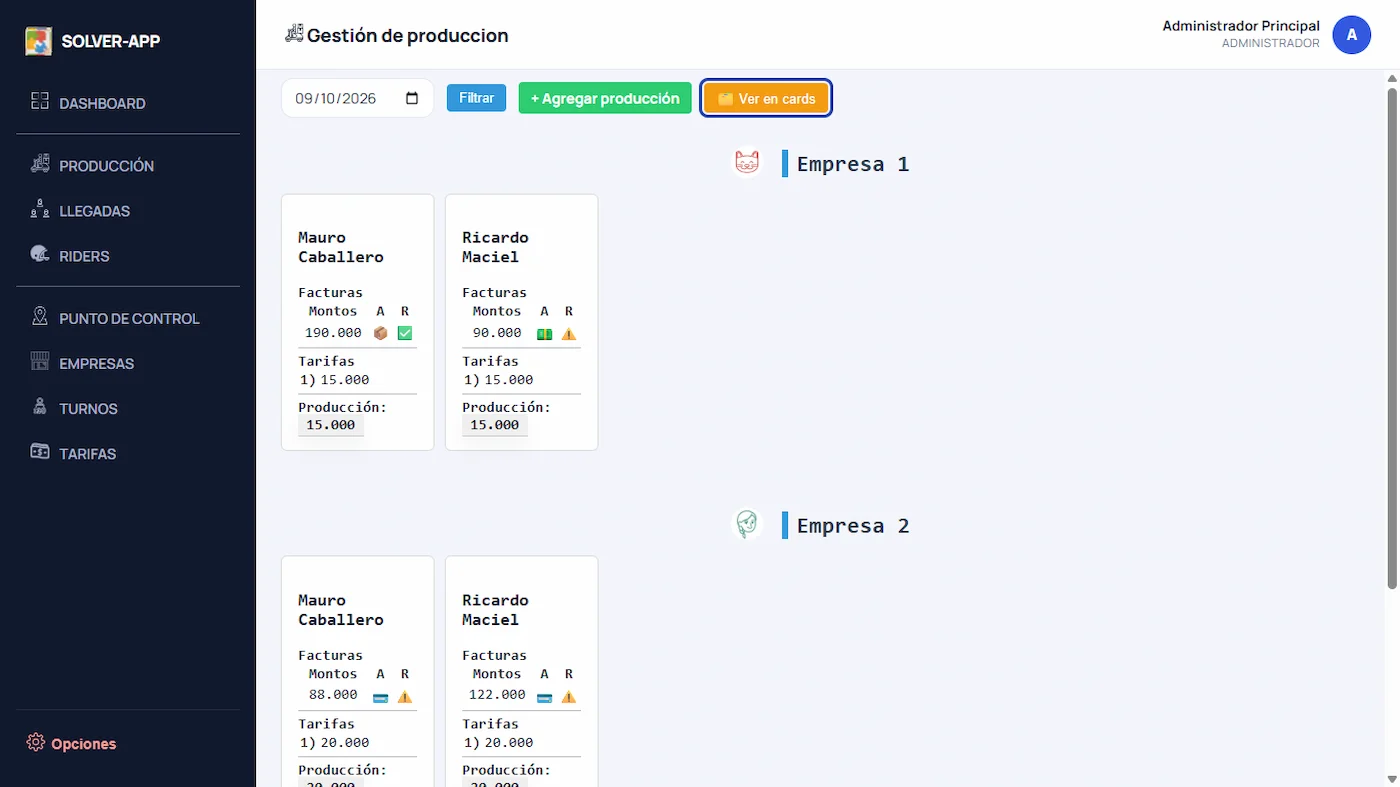
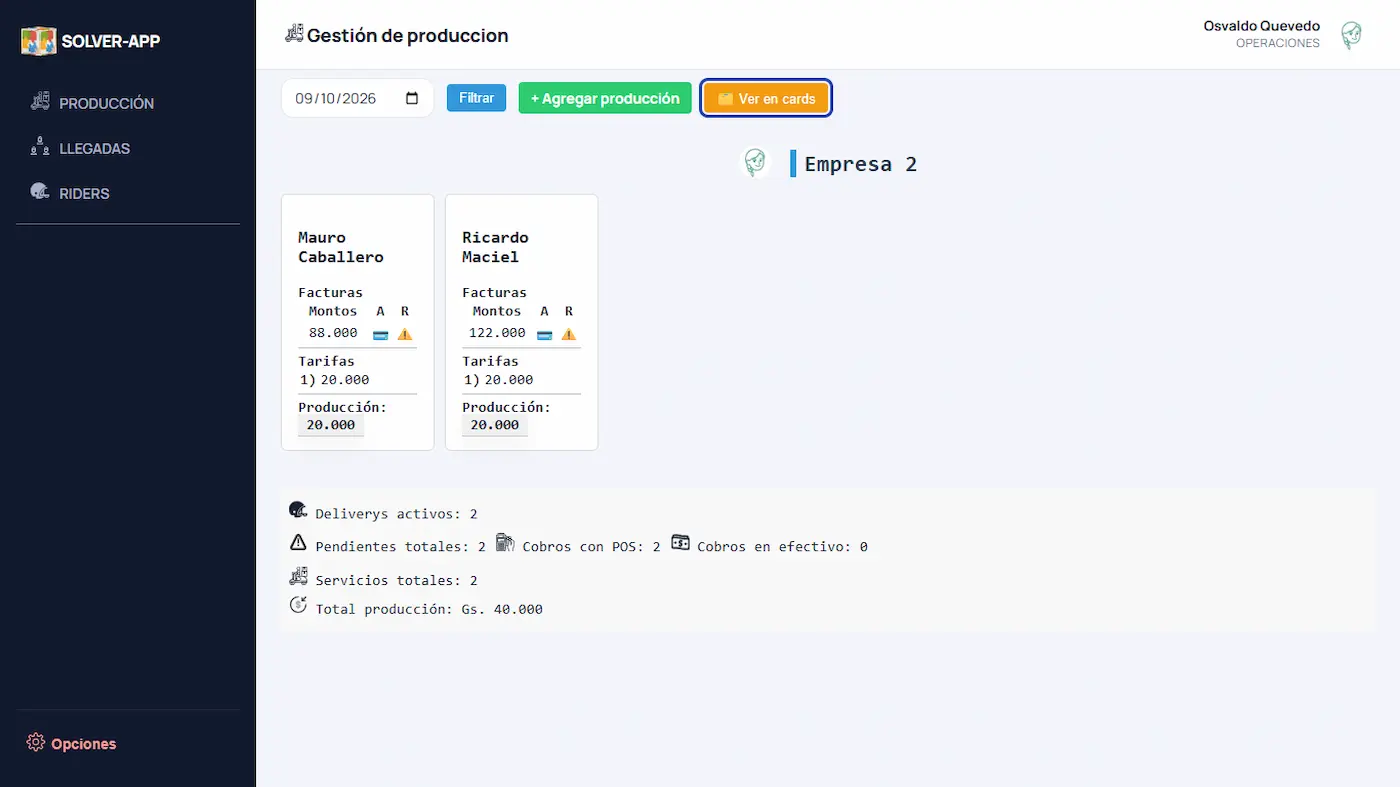
actualizacion en activacion de usuarios = rider

diff --git a/public/css/style.css b/public/css/style.css
@@ -2850,6 +2850,39 @@ facturas-table[type="date"]::-webkit-calendar-picker-indicator {
   justify-content: flex-end; /* 👈 mantiene el formulario a la derecha */
 }
 
+/* Botón de volver adaptado */
+.btn-volver {
+    display: inline-flex;
+    align-items: center;
+    justify-content: center;
+    gap: 8px; /* Espacio entre la flecha y el texto */
+    padding: 10px 20px;
+    font-size: 14px;
+    font-weight: 500;
+    color: #555555; /* Texto gris neutro */
+    background-color: #f5f5f5; /* Fondo suave */
+    border: 1px solid #dddddd;
+    border-radius: 6px;
+    text-decoration: none;
+    transition: all 0.2s ease-in-out;
+    cursor: pointer;
+}
+
+/* Efecto al pasar el mouse (Hover) */
+.btn-volver:hover {
+    color: #222222;
+    background-color: #eaeaea;
+    border-color: #cccccc;
+    transform: translateX(-2px); /* Pequeño efecto de empuje hacia la izquierda */
+}
+
+/* Ícono de flecha nativo en CSS (si no usas FontAwesome) */
+.btn-volver::before {
+    content: "←";
+    font-size: 16px;
+    line-height: 1;
+}
+
 /* Adaptación móvil */
 @media (max-width: 768px) {
   .hamburger {
@@ -3313,6 +3346,7 @@ panel-header d-flex align-items-center
     .flex-row { flex-direction: row !important; }
     .justify-between { justify-content: space-between !important; }
     .justify-center { justify-content: center !important; }
+    .align-start { align-items:flex-start !important; }
     .align-center { align-items: center !important; }
     .align-bottom { align-items: flex-end !important; }
     .gap-8 { gap: 8px !important; }

diff --git a/public/css/aboutdev.css b/public/css/aboutdev.css
@@ -564,6 +564,31 @@
 }
 
 
+/* Captura panorámica del Dashboard */
+
+.aboutdev-screenshot-wide {
+    margin: 32px 0;
+    padding: 14px;
+    border: 1px solid var(--ad-border);
+    border-radius: 16px;
+    background: var(--ad-surface);
+}
+
+.aboutdev-screenshot-wide img {
+    width: 100%;
+    height: auto;
+    max-height: 620px;
+    object-fit: contain;
+    border-radius: 10px;
+}
+
+@media (max-width: 640px) {
+    .aboutdev-screenshot-wide {
+        padding: 8px;
+        margin: 24px 0;
+    }
+}
+
 /* ========================================
    12. CAPTURAS DEL PROYECTO
 ======================================== */

diff --git a/views/aboutdev/index.php b/views/aboutdev/index.php
@@ -245,6 +245,18 @@
                 </span>
 
                 <h3>Marcaciones y ubicación</h3>
+                
+                <figure class="aboutdev-screenshot">
+                    <img
+                        src="/mercedes/public/images/aboutdev/asistencia.webp"
+                        alt="Interfaz de Control de Asistencias de Solver App"
+                        loading="lazy"
+                        decoding="async"
+                    >
+                    <figcaption>
+                        Marcaciones de asistencia y control geográfico.
+                    </figcaption>
+                </figure>
 
                 <p>
                     Permite configurar un punto de control
@@ -296,6 +308,18 @@
             <h2 id="aboutdev-desarrollo-title">
                 Cómo está construido Solver App
             </h2>
+            
+            <figure class="aboutdev-screenshot aboutdev-screenshot-wide">
+                <img
+                    src="/mercedes/public/images/aboutdev/dashboard.webp"
+                    alt="Panel Dashboard de Solver App con indicadores de producción"
+                    loading="lazy"
+                    decoding="async"
+                >
+                <figcaption>
+                    Panel de administración y visualización de información operativa.
+                </figcaption>
+            </figure>
 
             <p class="aboutdev-section-intro">
                 Detrás de cada pantalla hay decisiones

diff --git a/views/auth/activar-rider.php b/views/auth/activar-rider.php
@@ -7,7 +7,15 @@
  * - $tokenOriginal (string con el token de activación)
  */
 ?>
-<div class="page-header page-header-actions">
+<link rel="stylesheet" href="/mercedes/public/css/style.css">
+<link rel="stylesheet" href="/mercedes/public/css/css_cubo.css">
+<script src="/mercedes/public/js/tool-kit-v002.js"></script>
+
+<div class="w-full align-start">
+    <div id="contenedorCuboLogin"></div>
+</div>
+
+<div class="page-header page-header-actions">        
     <div>
         <h2>Activar cuenta de Rider</h2>
         <p>Por favor define tu contraseña para completar la activación.</p>
@@ -61,4 +69,10 @@
             <button type="submit" class="btn btn-primary">Activar cuenta</button>
         </div>
     </form>
+    <script>
+        document.addEventListener("DOMContentLoaded", function() {
+            // Esto se ejecutará solo cuando el HTML esté completamente mapeado
+            drawCube("contenedorCuboLogin", false, "28px");
+        });
+    </script>
 </div>

diff --git a/controllers/RidersController.php b/controllers/RidersController.php
@@ -149,6 +149,13 @@ class RidersController extends BaseController {
             return;
         }
 
+        // Impedir generar otro token si ya activó su cuenta
+        if (!empty($rider['activated_at'])) {
+            $_SESSION['error'] = 'Este Rider ya activó su cuenta. No necesita otro enlace.';
+            $this->redirect('/mercedes/riders');
+            return;
+        }
+
         $token = bin2hex(random_bytes(32));
         $tokenHash = hash('sha256', $token);
         $expiresAt = date('Y-m-d H:i:s', strtotime('+24 hours'));

diff --git a/views/rider_asistencia/form.php b/views/rider_asistencia/form.php
@@ -139,7 +139,8 @@
 
     <!-- acciones -->
     <div class="form-actions">
-        <a href="#" class="btn btn-primary">Mis llegadas</a>
+        <?php $hoy = date('Y-m-d'); ?>
+        <a href="/mercedes/rider_asistencia?fecha=<?= $hoy ?>" class="btn btn-volver">Mis llegadas</a>
     </div>
 
 </div>
